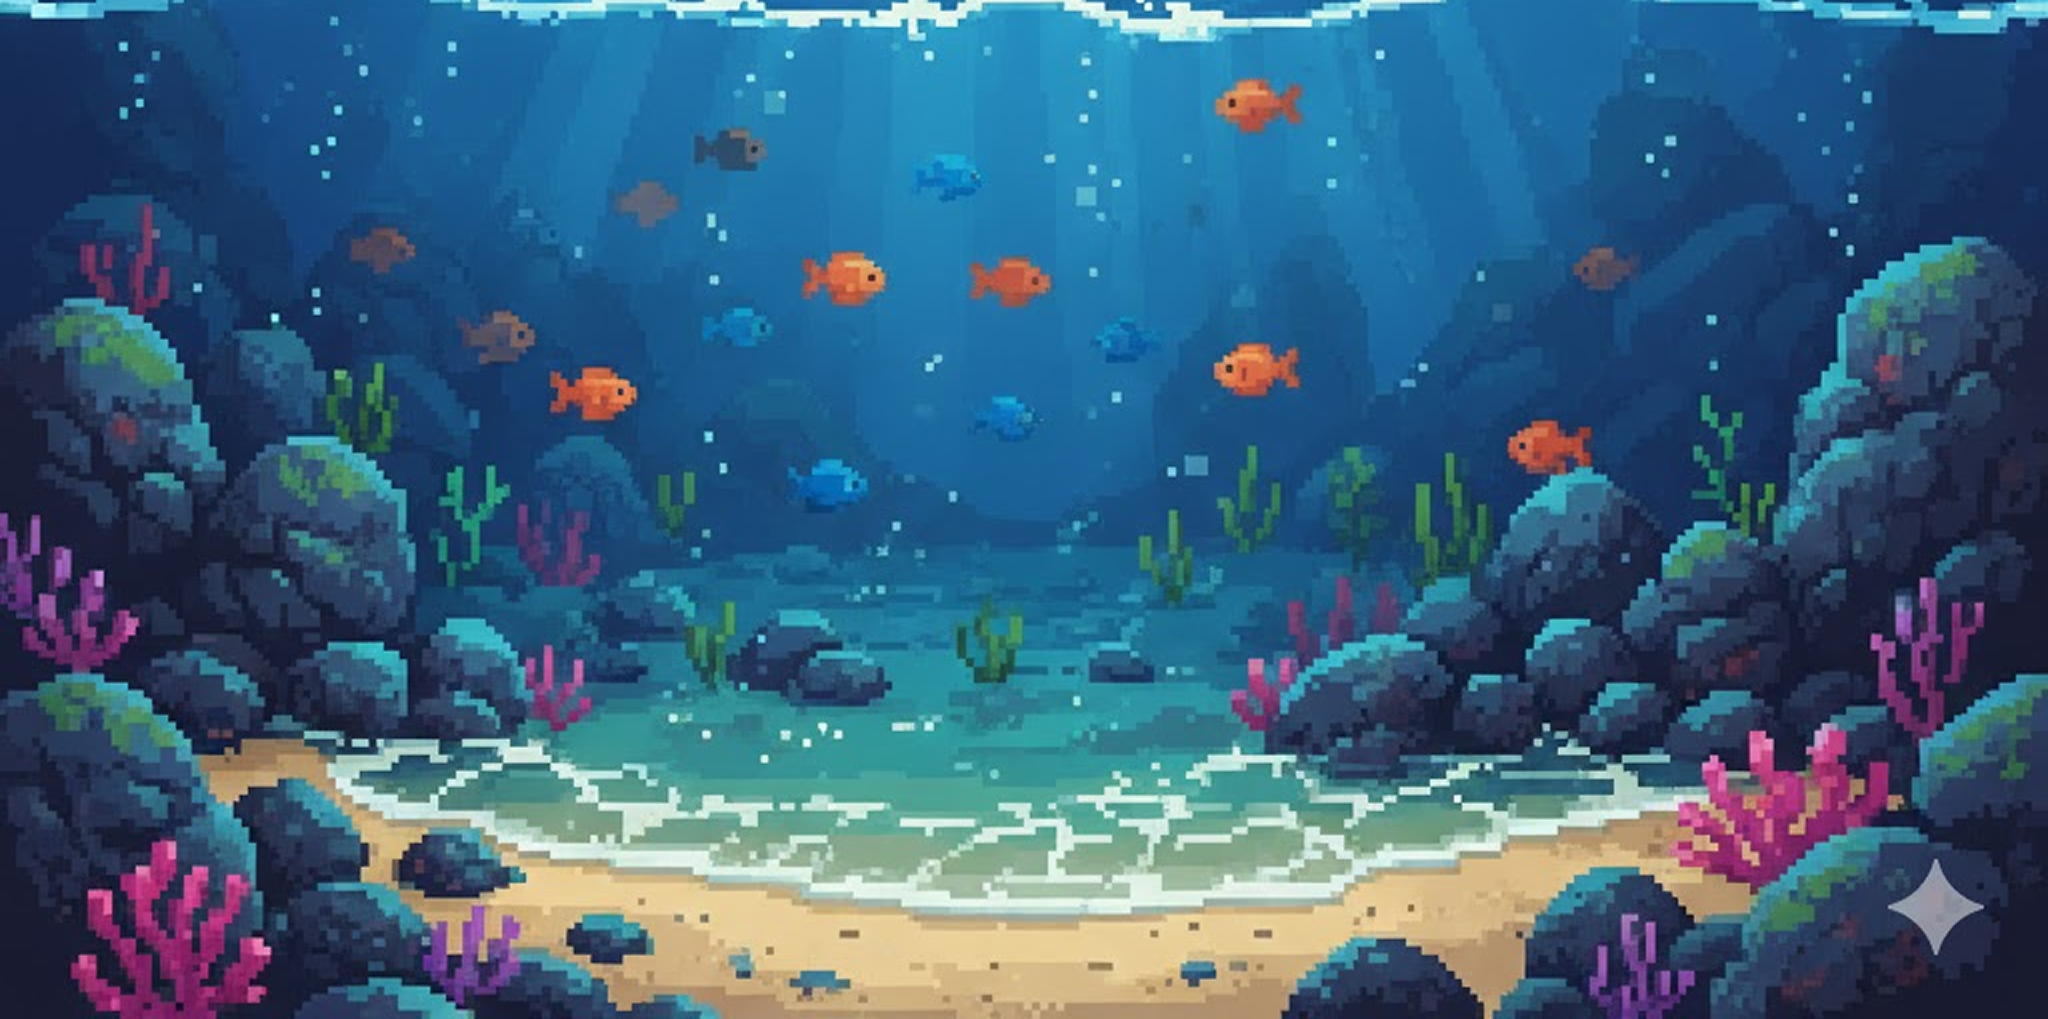
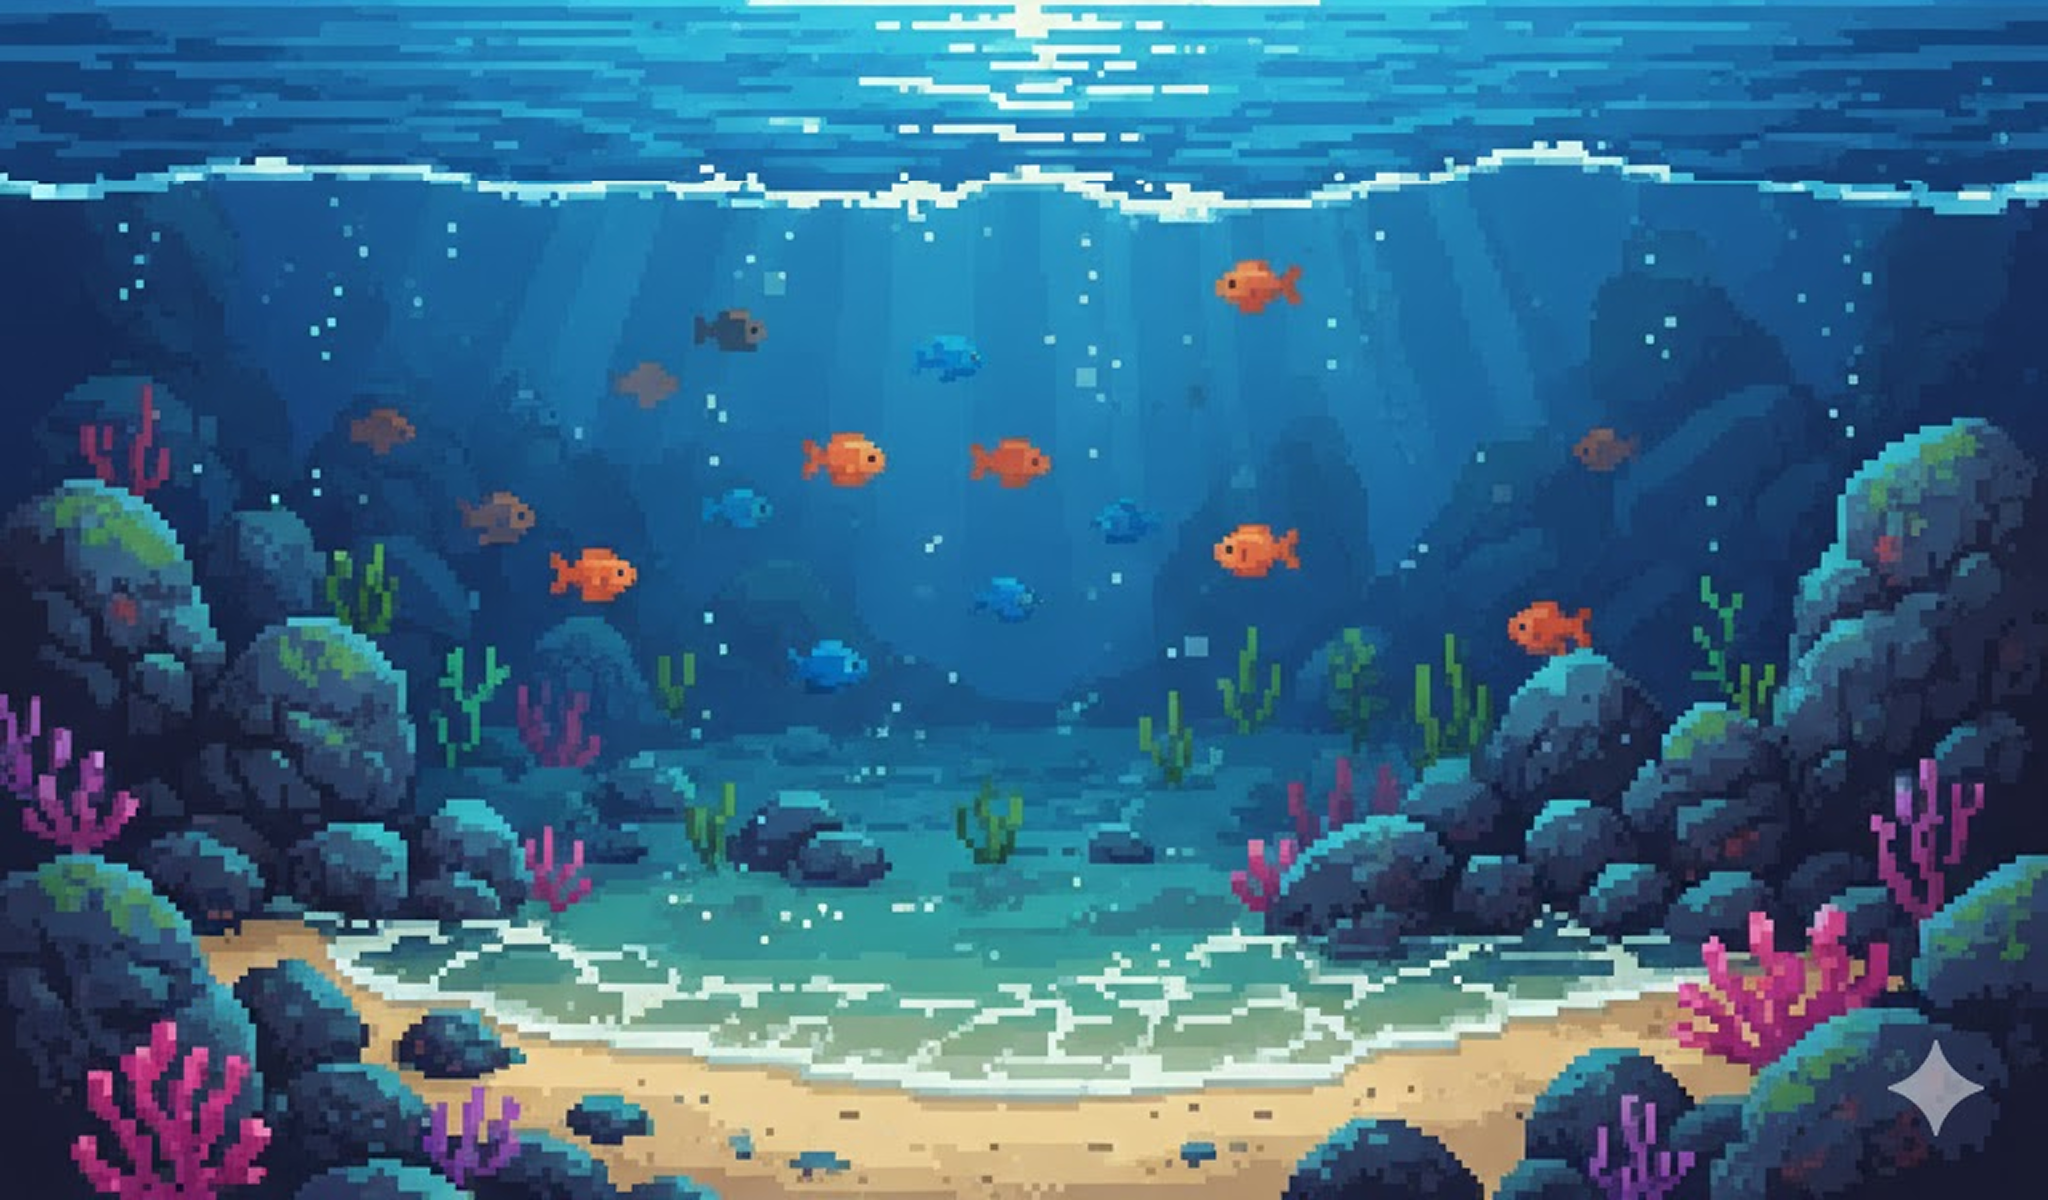
오염도 바다

diff --git a/src/App.jsx b/src/App.jsx
@@ -252,6 +252,10 @@ function App({ playerName, userId, onBackToMenu }) {
 
   const backgroundImages = getBackgroundImages(selectedHabitat);
 
+  const pollutionFilter = `hue-rotate(-${
+    (habitatPollution[selectedHabitat] || 0) * 1.2
+  }deg)`;
+
   // Helper function to refresh user data (money and pollution)
   const refreshUserData = () => {
     getUser(userId)
@@ -448,6 +452,8 @@ function App({ playerName, userId, onBackToMenu }) {
             objectFit: "fill",
             zIndex: 1,
             pointerEvents: "none",
+            filter:
+              selectedHabitat === "바닷속암반" ? pollutionFilter : "none",
           }}
         />
         <img
